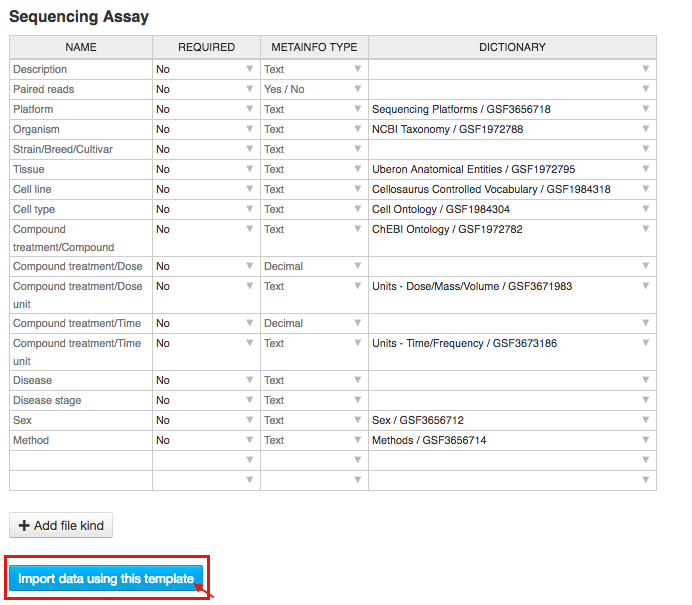
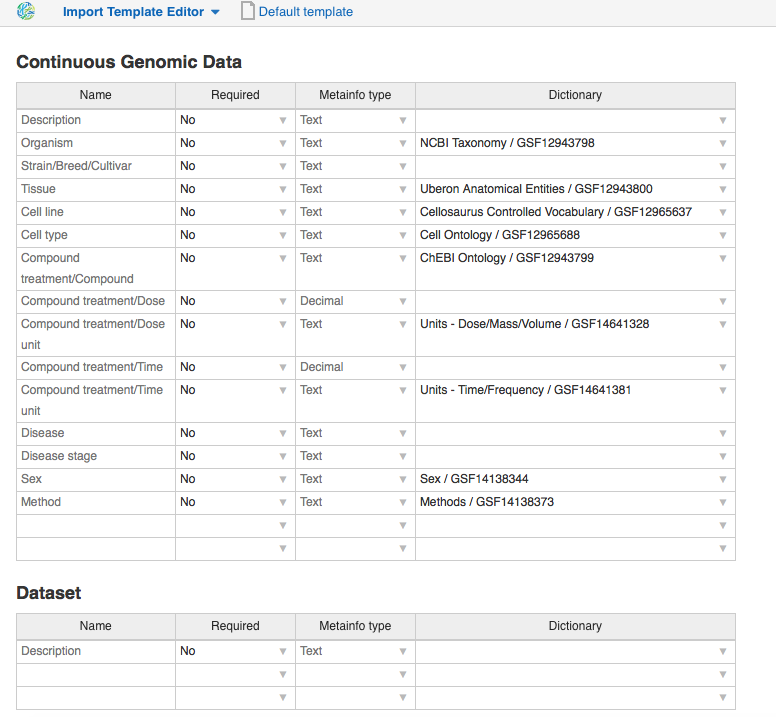
edit import,templates, sharing; add/update images

diff --git a/source/guide/using-genestack-import_include.rst b/source/guide/using-genestack-import_include.rst
@@ -10,12 +10,9 @@ Note that gzippped (.gz) and zipped (.zip) files are also supported.
 - **Microarray Data** — raw microarray data obtained from a microarray
   experiment (you can import Affymetrix (CEL), Agilent (TXT) or GenePix microarray data (GPR));
 - **Infinium Microarray Data** — raw intensity data files for Illumina Infinium Microarrays (IDAT);
-- **Infinium Methylation Beta Values** - methylation data matrices contained Beta-values
+- **Infinium Methylation Beta Values** — methylation data matrices contained Beta-values
   (methylation ratios) for Illumina Infinium Microarrays (.tsv, .txt);
-
-.. need to verify **Methylation Array Annotation**
-
-- **Methylation Array Annotation** - methylation chip annotation containing information about
+- **Methylation Array Annotation** — methylation chip annotation containing information about
   association of microarray probes to known genes (.tsv);
 - **Raw Reads** — raw sequencing data (FASTQ, SRA or FASTA+QUAL);
 - **Microarray Annotation** — annotation file containing information about
@@ -27,44 +24,44 @@ Note that gzippped (.gz) and zipped (.zip) files are also supported.
   with an exact start and end position (BED);
 - **Mapped Reads** — reads aligned to a specific reference genome (BAM or CRAM);
 - **Ontology Files** — OWL, OBO or CSV files used to annotate metainfo;
-- **Reference Genome** — Reference genome sequence for a specific organism
-  with annotation; (FASTA and GTF/GFF);
-- **Variation Files** — Genetic Variations files, storing gene sequence
+- **Reference Genomes** — reference genome sequence for a specific organism
+  with annotation; (FASTA and GFF/GTF/GFF3);
+- **Variation Files** — Genetic variations files, storing gene sequence
   variations (VCF);
-- **Gene List** - the file includes the list of genes for a specific organism (.gpr, .txt, .tsv);
-- **Gene Expression Signature** - the file includes the list of genes with expression pattern
-  specific to an organism phenotype according to statistical significance (filtering based on p-value) (.gpr, .txt, .tsv).
+- **Gene List** — the file includes the list of genes for a specific organism (.gpr, .txt, .tsv);
+- **Gene Expression Signature** — the file includes the list of genes with expression pattern
+  specific to an organism phenotype according to statistical significance (filtering based on p-value) (.gpr, .txt, .tsv);
+- **Gene Signature Database** — a list of annotated gene sets, that can be used in enrichment analysis (.gmt).
 
-When you upload microarrays or sequencing assays onto the platform, they will
-be automatically imported as a dataset.
+When you import files that are detected as raw sequencing or microarray data,
+Genestack automatically creates a **dataset**, a special type of folder, and adds the assays to it.
+Additional documents in any format (e.g. PDF, Word, text, etc.)
+can be imported as **attachments** to a dataset. We will discuss the use of attachments below.
+Some types of files, namely Reference Genome, Gene List, Gene Expression Signature,
+Gene Signature Database, Genetic Variations, Ontology Files, Dictionary, Microarray Annotation,
+Methylation Array Annotation, Infinium Beta Values, are not wrapped in
+datasets on import because they are rarely uploaded and processed as batches.
 
-- **Dataset** — A dataset is a special type of folder that can only
-  contain assays. When you import files that are detected as raw sequencing or
-  microarray assays, Genestack creates a dataset and adds the assays to it.
+When you perform any analysis on Genestack, other data types, which cannot be imported, can be created such as:
 
-- **Dataset attachments** additional documents in any file format (e.g. PDF, Word, text, etc.)
-  can be uploaded as an attachment to a dataset. We will discuss the use of attachments below.
-
-
-Moreover, when you perform any analysis on Genestack, you can create other data
-types, which cannot be imported. They include:
-
-- **Affymetrix/Agilent/GenePix Microarrays Normalisation** — File with
+- **Affymetrix/Agilent/GenePix Microarrays Normalisation** — file with
   normalized Affymetrix/Agilent/GenePix microarrays data;
 - **Differential Expression Statistics** — expression statistics for
   change in expression of individual genes or other genomic features between groups of samples,
   such as fold-changes, p-values, FDR, etc.;
-- **Genome Annotations** — A technical file used for matching GO terms and
+- **Genome Annotations** — a technical file used for matching GO terms and
   gene symbols to gene coordinates;
-- **Mapped Read Counts** — The number of reads mapped to each feature of a reference
-  sequence. Produced from Mapped Reads files.
+- **Mapped Read Counts** — file is produced Mapped reads and contains the number of reads mapped to each feature of a reference
+  sequence.
+
+.. verify
 
 Data import
 ~~~~~~~~~~~
 
 There are several ways you can access the **Import** application:
 
-- using the **Import data** link on the Welcome Page;
+- using the **Import data** link on the Dashboard;
 
 .. image:: images/WP_import.png
 
@@ -77,7 +74,7 @@ There are several ways you can access the **Import** application:
 
 .. image:: images/IT_import.png
 
-Import data includes three steps:
+Import data includes the following steps:
 
 Step 1: Uploading files
 +++++++++++++++++++++++
@@ -138,7 +135,7 @@ Step 3: Editing metainfo
 ++++++++++++++++++++++++
 
 In this step, you can describe uploaded data using an Excel-like spreadsheet.
-Importantly, during this step, the import has already completed - you will
+Importantly, during this step, the import has already completed — you will
 notice a message at the top of the page with the name of the folder where
 the imported files are located (named "Imported on <date> <time>"), and
 offering to share the data:
@@ -157,16 +154,16 @@ file names automatically based on other metainfo attributes.
 .. image:: images/naming_scheme.png
 
 Metainfo fields can be associated with specific dictionaries and
-ontologies. We pre-uploaded some public dictionaries such as the
-`NCBI Taxonomy`_ (for the Organism field), Cellosaurus_ (for Cell Line),
-ChEBI_ for chemical compounds, and the `Cell ontology`_.
+ontologies. We pre-uploaded some public dictionaries such as
+the `NCBI Taxonomy`_ database for the "Organism" field, the Cellosaurus_ (a resource on cell lines),
+the ChEBI_ for chemical compounds, and the `Cell Ontology`_ (cell types in animals).
 
 .. _NCBI Taxonomy: https://www.ncbi.nlm.nih.gov/taxonomy
 .. _Cellosaurus: http://web.expasy.org/cellosaurus/description.html
 .. _ChEBI: https://www.ebi.ac.uk/chebi
-.. _Cell ontology: http://www.obofoundry.org/ontology/cl.html
+.. _Cell Ontology: http://www.obofoundry.org/ontology/cl.html
 
-We also created our own controlled vocabularies to cover the Sex, Method and Platform fields.
+We also created our own controlled vocabularies to cover Sex, Method and Platform fields.
 You can find out more about ontologies in the :ref:`public-experiment-label` section.
 
 Finally, you can also create your own custom dictionary by importing it into the
@@ -177,7 +174,7 @@ platform as OWL, OBO or CSV file and attach it to the import template.
           Import templates allow you to select what metainfo attributes of your imported
           files will be tightly controlled (so you don’t lose any information in the
           process). Import templates allow you to set default fields for file metadata
-          based on file type (e.g. Experiments, Discrete Genomic Data, Genetic
+          based on file type (e.g. Datasets, Discrete Genomic Data, Genetic
           Variations, etc.). Of course, if you’re only importing mapped reads, you don’t
           need to specify metainfo attributes for other data types.
 
@@ -188,14 +185,7 @@ import templates with **Make a copy** option in the context menu.
 
 .. image:: images/copy-import-template.png
 
-You can add new import templates using the **Import Template Editor** application, which can be
-found by clicking "Add import template" from the Dashboard or from the
-"Manage" submenu when you right click on an import template.
-
-.. image:: images/import_templates.png
-   :scale: 45 %
-
-Genestack will attempt to fill these fields automatically, but you can always
+Genestack will attempt to fill metainfo fields automatically, but you can always
 edit the contents manually during the import process. By using metainfo
 templates you can make sure that all of your files will be adequately and
 consistently described so you will not lose any valuable information. For
@@ -204,18 +194,30 @@ Reference Genome data:
 
 .. image:: images/default_import_template.png
 
-Now let’s say you wish to create an import template where you want to control
-the metainfo attributes of sequencing assays (e.g. you always need to know the
-tissue and sex of your samples). In order to do this, click on "Add import
-template", then look for the table related to Sequencing Assays and for the
-fields "tissue" and "sex", change the required fields to ‘Yes’. As you can
+**Import template editor** application allows to modify existing import templates and create
+new ones with proper metainfo fields, requirements and controlled vocabularies. To access
+the app right-click on a template's name and select the **Import template editor** from
+the "Manage" submenu. To create new template on the basis of the default one you can also click
+**Add import template** one the Dashboard.
+
+.. image:: images/import_templates.png
+   :scale: 45 %
+
+Now let’s say you wish to create an import template to control
+the metainfo attributes of raw reads (e.g. you always need to know the
+tissue and sex of your samples). In order to do this, click on **Add import template**,
+then look for the table related to Raw Reads and for the
+fields "tissue" and "sex", change the required fields to *Yes*. As you can
 see, the system controls what type of information can you put into your
 metainfo fields. In this case, for tissue the system will map your entries to
-the Uberon ontology and the metainfo type must be text. You can edit
-existing templates by right-clicking on a template and selecting the **Import
-Template Editor** application from the "Manage" submenu.
+the Uberon_ ontology (an integrative multi-species anatomy ontology) and
+the metainfo type must be text.
 
-If you wanted to add other metainfo fields that are not included in the table
+.. _Uberon: http://uberon.github.io
+
+.. image:: images/edit-template.png
+
+If you want to **add other metainfo fields** that are not included in the table
 already, you can do this at the bottom of the table where there are blank
 spaces. For each entry, you must specify whether or not this field is
 required and what is its metainfo type (e.g. text, yes/no, integer).
@@ -225,16 +227,14 @@ required and what is its metainfo type (e.g. text, yes/no, integer).
 If you are using a file kind that is not yet listed, you can add a new one by
 clicking on the **Add File Kind** button at the bottom of the page and
 specifying the required metainfo attributes. Keep in mind that file kinds are
-defined in Genestack - you will not be able to create a template entry for a
+defined in Genestack — you will not be able to create a template entry for a
 file kind that is not used on the platform.
 
-When you are done, click on the blue "Import data using this template" button.
-This will take you to the import page, where you can go through three import
-stages described above.
+.. image:: images/template-add-file-kind.png
 
-Once you have completed the metainfo editing step, you may see a "Use files in
-data flow" button at the bottom of the page by "Import files". This depends on
-the file type you have imported. Later you can find your files in the "Imported
+When you are done, click on the blue **Import data using this template** button.
+This will take you to the **Data import** app import page, where you can go through the three import
+steps described above. You can find all the imported files in the "Imported
 files" folder which can be accessed from the Dashboard and from the File
 Manager.
 

diff --git a/source/guide/using-genestack-sharing_include.rst b/source/guide/using-genestack-sharing_include.rst
@@ -22,11 +22,11 @@ top-right corner of any page.
 Managing users
 ~~~~~~~~~~~~~~
 
-**If you are an administrator of your organisation**, the menu under your email
-address will also have an additional item, "Manage Users", which takes you to
+**If you are an administrator of your organisation**, the shortcut menu appeared when click on
+the Genestack logo will also have an additional item, "Manage Users", which takes you to
 the organisation's user management page.
 
-.. image:: images/profile_manage_users.png
+.. image:: images/shortcuts_manage_users.png
 
 From there, administrators can add or disable users, and reset passwords.
 
@@ -41,18 +41,18 @@ read and write, etc.).
 Managing groups
 ~~~~~~~~~~~~~~~
 
-To manage your groups, click on your email address at the top-right corner of
-any screen and select "Manage Groups".
+To manage your groups, click on the Genestack logo at the top-left corner of
+any screen and select **Manage groups**.
 
-.. image:: images/profile_manage_groups.png
+.. image:: images/shortcuts_manage_groups.png
 
-From there, you can create groups using the "Create group" button, add or remove
+From there, you can create groups using the **Create group** button, add or remove
 people from groups, and change users' privileges within groups. By default, you
 will be a group administrator of any group that is created by your user.
 
 .. image:: images/manage_create_groups.png
 
-If you are an administrator of a group, you can click the "Add member" button
+If you are an administrator of a group, you can click the **Add member** button
 to add people to a group. From there you will be prompted for the e-mail of the
 user you want to add. If they are in your organisation, you will be provided
 with autocomplete.
@@ -93,7 +93,7 @@ If you are a sharing user or an administrator of a group, you can share files
 with that group. Any file created on Genestack can be shared.
 
 To share a file, you can select it in the File Manager by ticking the checkbox
-next to it, then clicking the "Share" button in the top bar. Alternatively you
+next to it, then clicking the **Share** button in the top bar. Alternatively you
 can right-click on the file and select the "Share" option in the context menu.
 
 .. image:: images/sharing_experiment.png
